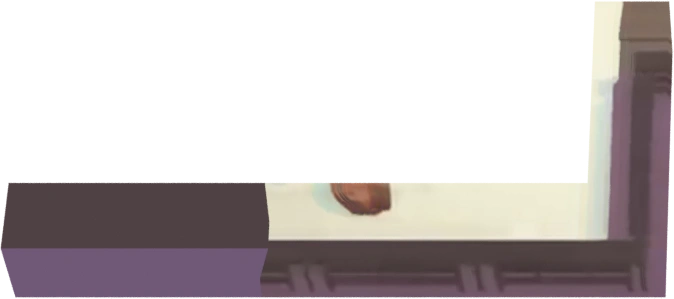
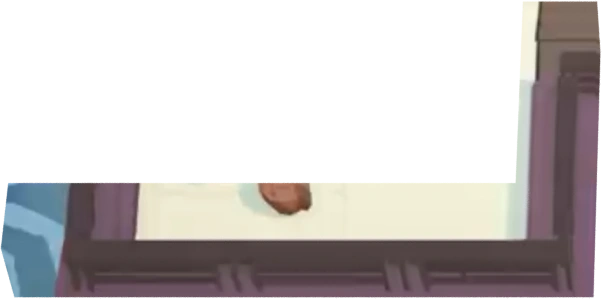
Slice 9 harbour_fort: rank passes only from frames that see a primitive; mover cleanup; west wall left to INFERRED paint; docs

diff --git a/art/reconstruction/runtime/bake_proxies.py b/art/reconstruction/runtime/bake_proxies.py
@@ -72,7 +72,9 @@ for prim in kit['primitives']:
         pts = [shot_px(POSES[f], v) for v in V]
         inside = sum(-2 <= u <= 642 and -2 <= v <= 362 for u, v in pts) / len(pts); u, v = shot_px(POSES[f], (cx, cy, cz))
         return (-round(inside, 1), (u - 320) ** 2 + (v - 180) ** 2)
-    ranked = sorted(POSES, key=score); best = ranked[min(RANK * 7, len(ranked) - 1)]          # ranks ~7 frames apart: movers move
+    ranked = sorted(POSES, key=score); top = -score(ranked[0])[0]
+    seeing = [f for f in ranked if -score(f)[0] >= top - 0.05]          # only frames that see it about as fully as the best one
+    best = seeing[min(RANK * 7, len(seeing) - 1)] if len(seeing) > RANK * 7 else seeing[(RANK * 3) % len(seeing)]          # ranks apart: movers move
     if best not in projectors: projectors[best] = camera(f'SHOT{best}', SHOT_F, POSES[best])
     me = bpy.data.meshes.new(prim['name']); me.from_pydata([(x * U, y * U, z * U) for x, y, z in V], [], [tuple(f) for f in F]); uvl_ = me.uv_layers.new(name='UV')
     ob = bpy.data.objects.new(prim['name'], me); bpy.context.collection.objects.link(ob)

diff --git a/art/reconstruction/MAP_INVENTORY.md b/art/reconstruction/MAP_INVENTORY.md
@@ -7,22 +7,22 @@ inliers; same environment ≥ 40), not appearance alone.
 Non-gameplay shots (not maps): **S3** f145–200 title card "LOCAL MULTIPLAYER CHAOS" (yellow); **S6** f373–431 title card
 "RIDICULOUS POWER-UPS" (pink); **S10** f821–945 couch cinematic "UP TO 6 PLAYERS" (living-room set, cast on a sofa).
 
-| #   | Internal name   | Shots / frames                                 | Status                                       |
-| --- | --------------- | ---------------------------------------------- | -------------------------------------------- |
-| 1   | `pond_garden`   | S0 f0–33                                       | not started                                  |
-| 2   | `lakeshore`     | S1 f34–83                                      | not started                                  |
-| 3   | `farm_plots`    | S2 f84–144                                     | not started                                  |
-| 4   | `market_plaza`  | S4 f201–263, S5 f264–372                       | **reconstructed (Pass 1–6)**; not integrated |
-| 5   | `sky_islands`   | S7 f432–545                                    | not started                                  |
-| 6   | `flooded_ruins` | S8 f546–650                                    | not started                                  |
-| 7   | `harbour_fort`  | S9 f651–820                                    | not started                                  |
-| 8   | `hedge_maze`    | S11 f946–1021                                  | not started                                  |
-| 9   | `toaster_dock`  | S12 f1022–1088                                 | not started                                  |
-| 10  | `twin_log_rink` | S13 f1089–1141, S18 f1388–1459, S19 f1460–1487 | not started                                  |
-| 11  | `hex_grove`     | S14 f1142–1205                                 | not started                                  |
-| 12  | `stone_ruins`   | S15 f1206–1257                                 | not started                                  |
-| 13  | `cross_pond`    | S16 f1258–1331                                 | not started                                  |
-| 14  | `diamond_walls` | S17 f1332–1387                                 | not started                                  |
+| #   | Internal name   | Shots / frames                                 | Status                                     |
+| --- | --------------- | ---------------------------------------------- | ------------------------------------------ |
+| 1   | `pond_garden`   | S0 f0–33                                       | not started                                |
+| 2   | `lakeshore`     | S1 f34–83                                      | not started                                |
+| 3   | `farm_plots`    | S2 f84–144                                     | not started                                |
+| 4   | `market_plaza`  | S4 f201–263, S5 f264–372                       | reconstructed; in game (camera f DISPUTED) |
+| 5   | `sky_islands`   | S7 f432–545                                    | not started                                |
+| 6   | `flooded_ruins` | S8 f546–650                                    | not started                                |
+| 7   | `harbour_fort`  | S9 f651–820                                    | IN PROGRESS: proxy kit, in game            |
+| 8   | `hedge_maze`    | S11 f946–1021                                  | not started                                |
+| 9   | `toaster_dock`  | S12 f1022–1088                                 | not started                                |
+| 10  | `twin_log_rink` | S13 f1089–1141, S18 f1388–1459, S19 f1460–1487 | not started                                |
+| 11  | `hex_grove`     | S14 f1142–1205                                 | not started                                |
+| 12  | `stone_ruins`   | S15 f1206–1257                                 | not started                                |
+| 13  | `cross_pond`    | S16 f1258–1331                                 | not started                                |
+| 14  | `diamond_walls` | S17 f1332–1387                                 | not started                                |
 
 ## Per-map records
 

diff --git a/art/reconstruction/README.md b/art/reconstruction/README.md
@@ -93,3 +93,32 @@ numpy, scipy) kept **outside the repo**; no JS dependency was added.
 - **Burst**: measured masks stored as exact pixel runs in the world plan (holes/specks survive; polygon tessellation had silently failed);
   dark threshold matched to the evaluation threshold.
 - **Teal**: classified REBUILD (geometry), not solved by rotation.
+
+## Per-map cameras and the map factory (Slice 9 generalization)
+
+Every map carries its OWN camera, solved from its footage and recorded with its evidence in `maps/<map>.json`; the runtime reads it
+from the map's manifest (`apps/console/src/render/reconstructed/mapCamera.ts`). Nothing in the renderer, the bake or the rules
+names a map: maps are rows in `render/reconstructed/maps.ts` and `runtime/arenas.ts`.
+
+**Why harbour_fort did not fit the plaza camera: the lens.** Vanishing-point calibration (`analysis/calib_vanishing.py`, horizon and
+nadir support scans; validated on a Pass-6 render with a known camera: nadir 650 vs true 630, horizon 1300 vs true 1285) gives
+harbour f = 1520–1554 px at 640 wide and pitch 55.4–57.2 deg in three independent segments of the shot (yaw, roll ~0). The plaza
+camera is f = 900 (39 deg horizontal FOV); harbour is ~23.5 deg. Not pose, not world scale (crate tops 0.035–0.040 vs 0.036 plan
+units), not framing alone. The same method gives **market_plaza take A f ~1490–1530, pitch ~54.5**, i.e. the frozen plaza f = 900 is
+probably wrong too; its vertical evidence is ~10x weaker than harbour's, the plaza runtime matches the footage as baked, and the
+plaza camera stays frozen as **DISPUTED** pending review. Shared lens presets are not factored yet (two maps are not a cluster).
+
+**Camera track for panned shots:** `analysis/track_pan.py` (fixed orientation, translation only; `FOO_FIXED_HEIGHT=1` when object
+sizes stay constant). The free-rotation homography chain drifted (yaw -27 deg in a shot whose walls never rotate) and a global
+re-registration against the median plan was tried and REJECTED (it pulled frames onto elevated walls). Check: `analysis/mosaic.py`.
+
+**Heights:** a dense plane sweep (`plane_sweep.py`, `heights_from_volume.py`) cannot measure structures that run along the camera's
+motion (no parallax), so heights come from triangulated KLT corners (`triangulate_tracks.py`) and from wireframe fits of measured
+primitives over reference frames (`overlay_proxies.py`).
+
+**Proxy-kit factory** (`runtime/build_proxy_map.sh <map> ...`): measured primitives (`maps/proxies/<map>.json`, each with a
+fidelity label) + a ground texture (`analysis/ground_texture.py`: median of the shot; unobserved cells filled by the classes listed in
+the map config, all INFERRED) → each primitive textured by projecting the frame that sees it best (`runtime/bake_proxies.py`; faces
+never seen take a fallback colour, INFERRED) → five passes from different frames, per-pixel median (movers drop out;
+`combine_passes.py`) → characters through the map camera (`bake_chars.py`, `FOO_MAP`) → `package_map.py`. Rules geometry:
+`runtime/gen_arena_proxies.py` (footprints + blocking water; water mechanics DEFERRED).
